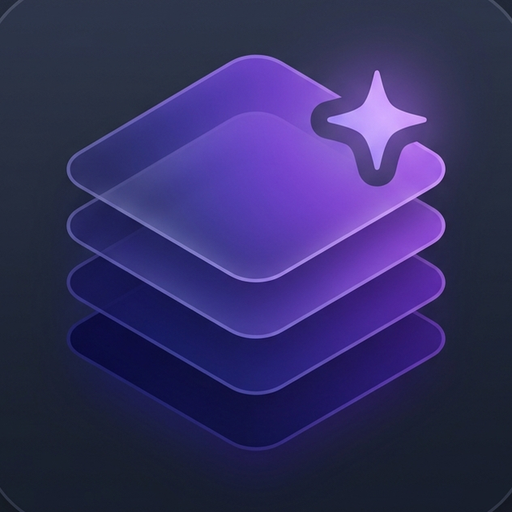
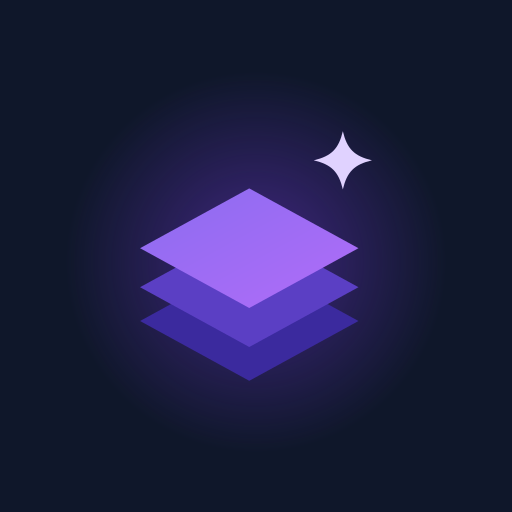
Açılış: PWA simgesi kare çerçevesiz, yükleme ekranı açılış ekranının devamı
- Uyarlanabilir (maskable) simge: zemini manifest arka plan rengiyle (#0f172a) birebir aynı,
  ortada katman simgesi ve hafif mor ışıma; telefonun açılış ekranında simgenin etrafındaki
  kare kayboldu (simge adresi sürümlendi, telefon yeni simgeyi alsın diye)
- Uygulama içi yükleme ekranı yeniden tasarlandı: aynı simge tam ortada, altında ince ilerleme
  çubuğu, en altta uygulama adı; tarayıcıda açık/koyu temaya uyar, ana ekrandan açılan
  uygulamada telefonun açılış ekranıyla aynı zemini kullanır (renk sıçraması olmaz)

Claude-Session: https://claude.ai/code/session_019gdZMY5YH5kFuHkRS3e7ba

diff --git a/src/components/common/LoadingScreens.tsx b/src/components/common/LoadingScreens.tsx
@@ -1,41 +1,54 @@
 'use client';
 
 import React from 'react';
-import { Layers } from 'lucide-react';
-import { Spinner } from '@/components/common/Spinner';
 
-/** Marka logosu (başlıktakiyle aynı): yükleme ekranlarında kullanılır. */
-function BrandMark({ className = 'w-14 h-14' }: { className?: string }) {
+/**
+ * Marka simgesi (katmanlar + yıldız), uygulama simgesiyle aynı çizim. Yükleme ekranında, telefonun
+ * PWA açılış ekranındaki simgeyle aynı yerde ve boyutta durur; geçiş fark edilmez.
+ */
+function BrandGlyph({ className = '' }: { className?: string }) {
   return (
-    <div className={`${className} rounded-2xl bg-gradient-to-tr from-indigo-600 via-purple-600 to-pink-500 flex items-center justify-center shadow-xl shadow-indigo-500/30`}>
-      <Layers className="w-1/2 h-1/2 text-white" />
-    </div>
+    <svg viewBox="8 3 50 54" className={className} aria-hidden="true">
+      <defs>
+        <linearGradient id="splash-top" x1="0" y1="0" x2="1" y2="1">
+          <stop offset="0" stopColor="#8b6cf0" />
+          <stop offset="1" stopColor="#b16cf8" />
+        </linearGradient>
+      </defs>
+      <path d="M32 31 53 42.5 32 54 11 42.5Z" fill="#3b2a9e" />
+      <path d="M32 24.5 53 36 32 47.5 11 36Z" fill="#5b3fc4" />
+      <path d="M32 17 53 28.5 32 40 11 28.5Z" fill="url(#splash-top)" />
+      <path className="app-splash-sparkle" d="M50 6c.8 3.4 2.2 4.8 5.6 5.6-3.4.8-4.8 2.2-5.6 5.6-.8-3.4-2.2-4.8-5.6-5.6 3.4-.8 4.8-2.2 5.6-5.6Z" />
+    </svg>
   );
 }
 
 /**
  * Uygulama açılırken (çalışma alanı tarayıcıdan/buluttan yüklenirken) tam ekran gösterilen karşılama.
- * `visible` false olunca yumuşakça kaybolur.
+ * Tarayıcıda temaya uyar; ana ekrandan açılan uygulamada (PWA) telefonun açılış ekranının devamıdır:
+ * aynı zemin, aynı simge ve konum (bkz. globals.css `.app-splash`). `visible` false olunca yumuşakça kaybolur.
  */
 export function AppSplash({ visible }: { visible: boolean }) {
   return (
     <div
       aria-hidden={!visible}
-      className={`fixed inset-0 z-[80] flex flex-col items-center justify-center gap-5 bg-slate-50 dark:bg-slate-950 transition-opacity duration-500 ${visible ? 'opacity-100' : 'opacity-0 pointer-events-none'}`}
+      className={`app-splash fixed inset-0 z-[80] transition-opacity duration-500 ${visible ? 'opacity-100' : 'opacity-0 pointer-events-none'}`}
     >
-      <div className="relative">
-        <span className="absolute inset-0 rounded-2xl bg-indigo-500/30 blur-xl animate-pulse [animation-duration:2s]" aria-hidden="true" />
-        <div className="relative animate-in zoom-in-90 fade-in duration-500">
-          <BrandMark />
+      {/* Simge tam ortada: telefonun açılış ekranındaki simgeyle üst üste gelir. */}
+      <div className="absolute inset-0 flex items-center justify-center">
+        <div className="relative w-40 h-40 flex items-center justify-center">
+          <span className="app-splash-glow absolute inset-0 rounded-full" aria-hidden="true" />
+          <BrandGlyph className="relative w-[4.75rem] h-[4.75rem]" />
         </div>
       </div>
-      <div className="text-center animate-in fade-in slide-in-from-bottom-2 duration-500 [animation-delay:120ms] [animation-fill-mode:both]">
-        <p className="text-lg font-bold bg-gradient-to-r from-indigo-600 via-purple-600 to-pink-500 dark:from-white dark:via-slate-200 dark:to-indigo-300 bg-clip-text text-transparent">Automania POD</p>
-        <p className="text-xs text-slate-500 dark:text-slate-400 mt-0.5">Etsy Print-on-Demand Studio</p>
+      <div className="absolute inset-x-0 top-1/2 mt-24 flex justify-center">
+        <div role="status" aria-label="Çalışma alanınız hazırlanıyor" className="app-splash-track h-1 w-28 rounded-full overflow-hidden">
+          <span className="app-splash-bar block h-full w-1/3 rounded-full" />
+        </div>
       </div>
-      <div role="status" className="flex items-center gap-2 text-xs text-slate-500 dark:text-slate-400">
-        <Spinner className="w-4 h-4 text-indigo-500" />
-        Çalışma alanınız hazırlanıyor…
+      <div className="absolute inset-x-0 bottom-[max(3rem,calc(env(safe-area-inset-bottom)+2rem))] text-center px-6">
+        <p className="app-splash-title text-xl font-semibold tracking-tight">Automania POD</p>
+        <p className="app-splash-muted text-xs mt-1">Etsy Print-on-Demand Studio</p>
       </div>
     </div>
   );

diff --git a/src/app/globals.css b/src/app/globals.css
@@ -235,6 +235,69 @@ input[type="range"] {
 }
 
 /* ============================================================
+   Açılış (yükleme) ekranı — `AppSplash`
+   Tarayıcıda temaya uyar. Ana ekrandan açılan uygulamada (display-mode: standalone) telefonun
+   açılış ekranının devamıdır: manifest'teki background_color (#0f172a) ile aynı zemin kullanılır,
+   böylece telefonun açılış ekranından bu ekrana geçişte renk sıçraması olmaz.
+   ============================================================ */
+.app-splash {
+  --splash-bg: #f8fafc;
+  --splash-title: #0f172a;
+  --splash-muted: #64748b;
+  --splash-track: rgba(99, 102, 241, 0.15);
+  --splash-glow: rgba(124, 58, 237, 0.18);
+  --splash-sparkle: #8b5cf6;
+  background-color: var(--splash-bg);
+}
+.dark .app-splash {
+  --splash-bg: #0f172a;
+  --splash-title: #f8fafc;
+  --splash-muted: #94a3b8;
+  --splash-track: rgba(148, 163, 184, 0.18);
+  --splash-glow: rgba(124, 58, 237, 0.4);
+  --splash-sparkle: #e0d2ff;
+}
+@media (display-mode: standalone) {
+  .app-splash {
+    --splash-bg: #0f172a;
+    --splash-title: #f8fafc;
+    --splash-muted: #94a3b8;
+    --splash-track: rgba(148, 163, 184, 0.18);
+    --splash-glow: rgba(124, 58, 237, 0.4);
+  --splash-sparkle: #e0d2ff;
+  }
+}
+.app-splash-title { color: var(--splash-title); }
+.app-splash-muted { color: var(--splash-muted); }
+.app-splash-track { background-color: var(--splash-track); }
+.app-splash-glow {
+  background: radial-gradient(circle, var(--splash-glow) 0%, transparent 70%);
+  animation: splash-glow 2.4s ease-in-out infinite;
+}
+.app-splash-bar {
+  background: linear-gradient(90deg, #6366f1, #a855f7);
+  animation: splash-bar 1.3s ease-in-out infinite;
+}
+.app-splash-sparkle {
+  fill: var(--splash-sparkle);
+  transform-box: fill-box;
+  transform-origin: center;
+  animation: splash-sparkle 2.4s ease-in-out infinite;
+}
+@keyframes splash-glow {
+  0%, 100% { opacity: 0.7; transform: scale(0.94); }
+  50% { opacity: 1; transform: scale(1.04); }
+}
+@keyframes splash-bar {
+  0% { transform: translateX(-110%); }
+  100% { transform: translateX(310%); }
+}
+@keyframes splash-sparkle {
+  0%, 100% { opacity: 0.75; transform: scale(0.85); }
+  50% { opacity: 1; transform: scale(1.1); }
+}
+
+/* ============================================================
    Ortak düğme stilleri — tüm ekranlarda aynı görünüm
    ============================================================ */
 @layer components {
